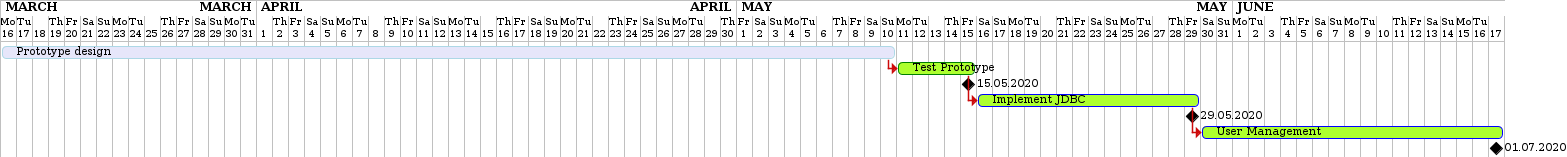
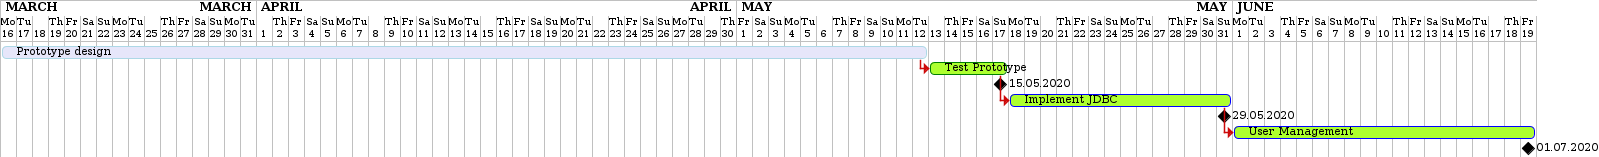
Updated GH-Pages

diff --git a/WorkManager/docs/index.html b/WorkManager/docs/index.html
@@ -438,14 +438,6 @@ body.book #toc,body.book #preamble,body.book h1.sect0,body.book .sect1>h2{page-b
 @media amzn-kf8{#header,#content,#footnotes,#footer{padding:0}}
 </style>
 <link rel="stylesheet" href="https://cdnjs.cloudflare.com/ajax/libs/font-awesome/4.7.0/css/font-awesome.min.css">
-<style>
-pre.rouge .hll {
-  background-color: #ffc;
-}
-pre.rouge .hll * {
-  background-color: initial;
-}
-</style>
 </head>
 <body class="article toc2 toc-left">
 <div id="header">
@@ -518,15 +510,17 @@ Der Mitarbeiter kann somit seinen wöchentlichen Arbeitsplan digital verfolgen.<
 </div>
 <div class="sect2">
 <h3 id="_erd_diagramm"><a class="anchor" href="#_erd_diagramm"></a>4.1. ERD Diagramm</h3>
-<div class="paragraph">
-<p>image::erd_diagramm.jpg</p>
+<div class="imageblock">
+<div class="content">
+<img src="images/erd_diagramm.jpg" alt="ERD-Diagramm">
+</div>
 </div>
 </div>
 <div class="sect2">
 <h3 id="_domain_object_model"><a class="anchor" href="#_domain_object_model"></a>4.2. Domain Object Model</h3>
 <div class="imageblock">
 <div class="content">
-<img src="images/klassendia.png" alt="klassendia" width="382" height="251">
+<img src="images/klassendiagramm.png" alt="Klassendiagramm" width="814" height="224">
 </div>
 </div>
 </div>
@@ -567,14 +561,16 @@ Der Mitarbeiter kann somit seinen wöchentlichen Arbeitsplan digital verfolgen.<
 </div>
 <div class="paragraph">
 <p><a href="gantt.html">Gantt-Diagramm</a>,
-<a href="youtrack-diagramm.html">Youtrack-Diagramm</a></p>
+<a href="youtrack-diagramm.html">Youtrack-Diagramm</a>
+<a href="projektantrag_Workmanager.html">Projektantrag</a>
+<a href="projektauftrag_Workmanager.html">Projektauftrag</a></p>
 </div>
 </div>
 </div>
 </div>
 <div id="footer">
 <div id="footer-text">
-Last updated 2020-05-10 23:01:33 UTC
+Last updated 2020-05-10 23:45:55 UTC
 </div>
 </div>
 </body>

diff --git a/WorkManager/docs/projektantrag_Workmanager.html b/WorkManager/docs/projektantrag_Workmanager.html
@@ -438,14 +438,6 @@ body.book #toc,body.book #preamble,body.book h1.sect0,body.book .sect1>h2{page-b
 @media amzn-kf8{#header,#content,#footnotes,#footer{padding:0}}
 </style>
 <link rel="stylesheet" href="https://cdnjs.cloudflare.com/ajax/libs/font-awesome/4.7.0/css/font-awesome.min.css">
-<style>
-pre.rouge .hll {
-  background-color: #ffc;
-}
-pre.rouge .hll * {
-  background-color: initial;
-}
-</style>
 </head>
 <body class="article toc2 toc-left">
 <div id="header">
@@ -614,12 +606,19 @@ Nach jeden Monat wird für jeden Mitarbeiter eine Bilanz seiner/ihrer Arbeitstun
 <p>Projektmanager: Yimne Raid
 Projektteam: Yimne Raid, Daniel Andricic, Robert Rajkovaca</p>
 </div>
+<div class="paragraph">
+<p><a href="index.html">Pflichtenheft</a>
+<a href="youtrack-diagramm.html">Youtrack Diagramm</a>
+<a href="gantt.html">Gantt-Diagramm</a>
+<a href="projekauftrag_Workmanager.html">Projektauftrag</a>
+<a href="projektantrag_Workmanager.html">Projektantrag</a></p>
+</div>
 </div>
 </div>
 </div>
 <div id="footer">
 <div id="footer-text">
-Last updated 2020-05-10 22:57:34 UTC
+Last updated 2020-05-10 23:13:01 UTC
 </div>
 </div>
 </body>

diff --git a/WorkManager/docs/projektauftrag_Workmanager.html b/WorkManager/docs/projektauftrag_Workmanager.html
@@ -438,14 +438,6 @@ body.book #toc,body.book #preamble,body.book h1.sect0,body.book .sect1>h2{page-b
 @media amzn-kf8{#header,#content,#footnotes,#footer{padding:0}}
 </style>
 <link rel="stylesheet" href="https://cdnjs.cloudflare.com/ajax/libs/font-awesome/4.7.0/css/font-awesome.min.css">
-<style>
-pre.rouge .hll {
-  background-color: #ffc;
-}
-pre.rouge .hll * {
-  background-color: initial;
-}
-</style>
 </head>
 <body class="article toc2 toc-left">
 <div id="header">
@@ -606,12 +598,19 @@ Es sollen keine persönliche Daten an unbefugten Personen weitergeleitet werden.
 </li>
 </ul>
 </div>
+<div class="paragraph">
+<p><a href="index.html">Pflichtenheft</a>
+<a href="youtrack-diagramm.html">Youtrack Diagramm</a>
+<a href="gantt.html">Gantt-Diagramm</a>
+<a href="projekauftrag_Workmanager.html">Projektauftrag</a>
+<a href="projektantrag_Workmanager.html">Projektantrag</a></p>
+</div>
 </div>
 </div>
 </div>
 <div id="footer">
 <div id="footer-text">
-Last updated 2020-05-10 22:57:34 UTC
+Last updated 2020-05-10 23:13:27 UTC
 </div>
 </div>
 </body>

diff --git a/WorkManager/docs/gantt.html b/WorkManager/docs/gantt.html
@@ -438,14 +438,6 @@ body.book #toc,body.book #preamble,body.book h1.sect0,body.book .sect1>h2{page-b
 @media amzn-kf8{#header,#content,#footnotes,#footer{padding:0}}
 </style>
 <link rel="stylesheet" href="https://cdnjs.cloudflare.com/ajax/libs/font-awesome/4.7.0/css/font-awesome.min.css">
-<style>
-pre.rouge .hll {
-  background-color: #ffc;
-}
-pre.rouge .hll * {
-  background-color: initial;
-}
-</style>
 </head>
 <body class="article toc2 toc-left">
 <div id="header">
@@ -475,7 +467,7 @@ pre.rouge .hll * {
 <div class="sectionbody">
 <div class="imageblock">
 <div class="content">
-<img src="images/gantt.png" alt="gantt" width="1567" height="157">
+<img src="images/gantt.png" alt="gantt" width="1599" height="157">
 </div>
 </div>
 </div>
@@ -492,7 +484,7 @@ pre.rouge .hll * {
 </div>
 <div id="footer">
 <div id="footer-text">
-Last updated 2020-05-10 22:57:34 UTC
+Last updated 2020-05-10 23:50:37 UTC
 </div>
 </div>
 </body>

diff --git a/WorkManager/docs/youtrack-diagramm.html b/WorkManager/docs/youtrack-diagramm.html
@@ -438,14 +438,6 @@ body.book #toc,body.book #preamble,body.book h1.sect0,body.book .sect1>h2{page-b
 @media amzn-kf8{#header,#content,#footnotes,#footer{padding:0}}
 </style>
 <link rel="stylesheet" href="https://cdnjs.cloudflare.com/ajax/libs/font-awesome/4.7.0/css/font-awesome.min.css">
-<style>
-pre.rouge .hll {
-  background-color: #ffc;
-}
-pre.rouge .hll * {
-  background-color: initial;
-}
-</style>
 </head>
 <body class="article toc2 toc-left">
 <div id="header">
